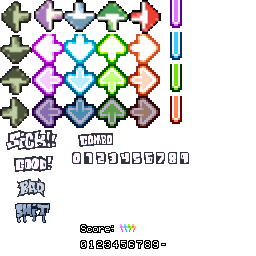
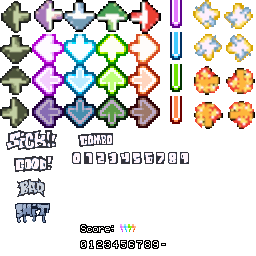
changed stuffs

Changed region(s): [[0.75, 0.0, 1.0, 0.5]]

diff --git a/src/stage.c b/src/stage.c
@@ -23,10 +23,14 @@
 #include "object/splash.h"
 
 int bfnotex = 0;
+int thundercooldown = 0;
+int thunder = 0;
+int flamecooldown = 0;
+int flame = 0;
 
 
 //Stage constants
-#define STAGE_PERFECT //Play all notes perfectly
+//#define STAGE_PERFECT //Play all notes perfectly
 //#define STAGE_NOHUD //Disable the HUD
 
 //#define STAGE_FREECAM //Freecam
@@ -355,7 +359,7 @@ static void Stage_NoteCheck(PlayerState *this, u8 type)
 			#endif
 			return;
 		}
-		else
+		else if ((note->type & ( NOTE_FLAG_THUNDER)))
 		{
 			//Check if mine can be hit
 			fixed_t note_fp = (fixed_t)note->pos << FIXED_SHIFT;
@@ -370,10 +374,64 @@ static void Stage_NoteCheck(PlayerState *this, u8 type)
 			note->type |= NOTE_FLAG_HIT;
 			
 				this->health -= 3500;
+			
+			stage.thunderbolt = 1;
 
-			if (this->character->spec & CHAR_SPEC_MISSANIM)
-				this->character->set_anim(this->character, note_anims[type & 0x3][0]);
-			else if (stage.gameboy == 1)
+		    if (stage.gameboy == 1)
+			this->character->set_anim(this->character, note_anims[type & 0x3][1]);
+
+	       else
+	       this->character->set_anim(this->character, note_anims[type & 0x3][0]);
+
+			this->arrow_hitan[type & 0x3] = -1;
+			
+			#ifdef PSXF_NETWORK
+				if (stage.mode >= StageMode_Net1)
+				{
+					//Send note hit packet
+					Packet note_hit;
+					note_hit[0] = PacketType_NoteHit;
+					
+					u16 note_i = note - stage.notes;
+					note_hit[1] = note_i >> 0;
+					note_hit[2] = note_i >> 8;
+					
+					note_hit[3] = this->score >> 0;
+					note_hit[4] = this->score >> 8;
+					note_hit[5] = this->score >> 16;
+					note_hit[6] = this->score >> 24;
+					
+					/*
+					note_hit[7] = 0xFF;
+					
+					note_hit[8] = this->combo >> 0;
+					note_hit[9] = this->combo >> 8;
+					*/
+					
+					Network_Send(&note_hit);
+				}
+			#endif
+			return;
+		}
+
+		else
+		{
+			//Check if mine can be hit
+			fixed_t note_fp = (fixed_t)note->pos << FIXED_SHIFT;
+			if (note_fp - (stage.late_safe * 3 / 5) > stage.note_scroll)
+				break;
+			if (note_fp + (stage.late_safe * 2 / 5) < stage.note_scroll)
+				continue;
+			if ((note->type & NOTE_FLAG_HIT) || (note->type & (NOTE_FLAG_OPPONENT | 0x3)) != type || (note->type & NOTE_FLAG_SUSTAIN))
+				continue;
+			
+			//Hit the mine
+			note->type |= NOTE_FLAG_HIT;
+
+			    stage.flame = 1;
+				this->health -= 3500;
+
+             if (stage.gameboy == 1)
 			this->character->set_anim(this->character, note_anims[type & 0x3][1]);
 
 	       else
@@ -469,6 +527,7 @@ static void Stage_SustainCheck(PlayerState *this, u8 type)
 	   if (stage.gameboy == 1)
 		this->character->set_anim(this->character, note_anims[type & 0x3][1]);
 
+		else
 		this->character->set_anim(this->character, note_anims[type & 0x3][0]);
 		
 		Stage_StartVocal();
@@ -927,10 +986,12 @@ static void Stage_DrawNotes(void)
 					continue;
 				
 				//Draw note body
+
 				note_src.x = 192 + ((note->type & 0x1) << 5);
 				note_src.y = 64 + ((note->type & 0x2) << 4);
 				note_src.w = 32;
 				note_src.h = 36;
+				
 				
 				note_dst.x = FIXED_DEC(bfnotex,1) + note_x[(note->type & 0x7)] - FIXED_DEC(16,1);
 				note_dst.y = y - FIXED_DEC(16,1);
@@ -1515,27 +1576,68 @@ void Stage_Tick(void)
 			case 511:
 			stage.gameboy = 1;
 			break;
-			case 576:
+			case 574:
 			stage.gameboy = 0;
 			break;
-			case 640:
+			case 641:
 			stage.gameboy = 1;
 			break;
-			case 705:
+			case 703:
 			stage.gameboy = 0;
 			break;
-			case 1056:
+			case 1055:
 			stage.gameboy = 1;
 			break;
 			case 1264:
 			stage.gameboy = 0;
 			break;
-			case 1346:
+			case 1347:
 			stage.gameboy = 1;
 			break;
 			case 1408:
 			stage.gameboy = 0;
 			break;
+			}
+
+			if (stage.thunderbolt == 1)
+			{
+			RECT dst_laser = {0, 0, 400, 400};
+
+			if (thunder != 10)
+			{
+			Gfx_BlendRect(&dst_laser, 228, 253, 1, 0);
+			thunder++;
+			}
+
+			 thundercooldown++;
+			   				
+			 if (thundercooldown == 20)
+			 {
+			   stage.thunderbolt = 0;
+			   thundercooldown = 0;
+			   thunder = 0;
+
+			 }
+			}
+			if (stage.flame == 1)
+			{
+			RECT dst_laser = {0, 0, 400, 400};
+
+			if (flame != 10)
+			{
+			Gfx_BlendRect(&dst_laser, 253, 114, 1, 0);
+			flame++;
+			}
+
+			 flamecooldown++;	
+			
+			 if (flamecooldown == 20)
+			 {
+			   stage.flame = 0;
+			   flamecooldown = 0;
+			   flame = 0;
+
+			 }
 			}
 
 

diff --git a/src/stage/week1.c b/src/stage/week1.c
@@ -22,6 +22,7 @@ typedef struct
 	IO_Data arc_char, arc_char_ptr[6];
 
 	Gfx_Tex tex_back0; //Stage and back
+	Gfx_Tex tex_pixelp;
 
 	//Pikachu state
 	Gfx_Tex tex_pika;
@@ -46,12 +47,13 @@ static const CharFrame pika_frame[] = {
 	{0, {135, 122, 112, 90}, { 51,  90}}, //3 left 4
 	{1, {36, 9, 108, 90}, { 51,  90}}, //3 left 4
 	
-	{1, {  31,   127, 105, 86}, { 69,  86}}, //5 right 1
+	{1, {  31,  127, 105, 86}, { 69,  86}}, //5 right 1
 	{1, {136,   128,  104, 86}, { 69, 86}}, //6 right 2
 };
 
 static const Animation pika_anim[] = {
-	{2, (const u8[]){0, 1, 2, 3, 4, 5, 6, ASCR_BACK, 1}}, //Left
+	{2, (const u8[]){0, 1, 2, 3, 4,  ASCR_BACK, 1}}, //Left
+	{2, (const u8[]){5, 5, 5, 6, 6, 6,  ASCR_BACK, 1}}, //Left
 };
 
 //Pikachu functions
@@ -93,6 +95,7 @@ static const CharFrame char_frame[] = {
 
 static const Animation char_anim[] = {
 	{2, (const u8[]){0, 1, 2, 3, 4, ASCR_BACK, 1}}, //Left
+	{2, (const u8[]){5, 5, 5, 5, 5, ASCR_BACK, 1}}, //Left
 };
 
 
@@ -147,7 +150,40 @@ void Back_Week1_DrawFG(StageBack *back)
 	Animatable_Animate(&this->pika_animatable, (void*)this, Week1_Pika_SetFrame);
 	
 	if (stage.gameboy != 1)
-	Week1_Pika_Draw(this, FIXED_DEC(160,1) - fx, FIXED_DEC(80,1) - fy);
+	Week1_Pika_Draw(this, FIXED_DEC(220,1) - fx, FIXED_DEC(80,1) - fy);
+
+	if (stage.gameboy != 1 && stage.thunderbolt == 1)
+	Animatable_SetAnim(&this->pika_animatable, 1);
+
+	fixed_t beat_bop;
+	if ((stage.song_step & 0x3) == 0)
+		beat_bop = FIXED_UNIT - ((stage.note_scroll / 24) & FIXED_LAND);
+	else
+		beat_bop = 0;
+
+	if (stage.gameboy == 1)
+	{
+	 //Draw boppers
+	static const struct Back_Week1_LowerBop
+	{
+		RECT src;
+		RECT_FIXED dst;
+	} lbop_piece[] = {
+		{{0, 0, 88, 90}, {FIXED_DEC(190,1), FIXED_DEC( 10,1), FIXED_DEC(88,1), FIXED_DEC(90,1)}},
+	};
+	
+	const struct Back_Week1_LowerBop *lbop_p = lbop_piece;
+	for (size_t i = 0; i < COUNT_OF(lbop_piece); i++, lbop_p++)
+	{
+		RECT_FIXED lbop_dst = {
+			lbop_p->dst.x - fx - (beat_bop << 1),
+			lbop_p->dst.y - fy + (beat_bop << 3),
+			lbop_p->dst.w + (beat_bop << 2),
+			lbop_p->dst.h - (beat_bop << 3),
+		};
+		Stage_DrawTex(&this->tex_pixelp, &lbop_p->src, &lbop_dst, stage.camera.bzoom);
+	}
+}
 }
 
 void Back_Week1_DrawBG(StageBack *back)
@@ -172,17 +208,20 @@ void Back_Week1_DrawBG(StageBack *back)
 	Animatable_Animate(&this->char_animatable, (void*)this, Week1_Char_SetFrame);
 	
 	if (stage.gameboy != 1)
-	Week1_Char_Draw(this, FIXED_DEC(80,1) - fx, FIXED_DEC(80,1) - fy);
+	Week1_Char_Draw(this, FIXED_DEC(86,1) - fx, FIXED_DEC(60,1) - fy);
+
+	if (stage.gameboy != 1 && stage.flame == 1)
+	Animatable_SetAnim(&this->char_animatable, 1);
 	
 
 	if (stage.gameboy != 1)
 	{
 	RECT back_src = {0, 0, 256, 141};
 	RECT_FIXED back_dst = {
-		FIXED_DEC(-278,1) - fx,
-		FIXED_DEC(-100,1) - fy,
-		FIXED_DEC(540,1),
-		FIXED_DEC(341,1)
+		FIXED_DEC(-310,1) - fx,
+		FIXED_DEC(-130,1) - fy,
+		FIXED_DEC(630,1),
+		FIXED_DEC(381,1)
 	};
 
 	Stage_DrawTex(&this->tex_back0, &back_src, &back_dst, stage.camera.bzoom);
@@ -195,7 +234,7 @@ void Back_Week1_Free(StageBack *back)
 	
 	//Free Pikachu archive
 	Mem_Free(this->arc_pika);
-
+    Mem_Free(this->arc_char);
 
 	//Free structure
 	Mem_Free(this);
@@ -217,6 +256,7 @@ StageBack *Back_Week1_New(void)
 	//Load background textures
 	IO_Data arc_back = IO_Read("\\WEEK1\\BACK.ARC;1");
 	Gfx_LoadTex(&this->tex_back0, Archive_Find(arc_back, "back0.tim"), 0);
+	Gfx_LoadTex(&this->tex_pixelp, Archive_Find(arc_back, "pixelp.tim"), 0);
 	Mem_Free(arc_back);
 
 	//Load pikachu textures

diff --git a/src/stagedef_disc1.h b/src/stagedef_disc1.h
@@ -1,7 +1,7 @@
 	{ //StageId_1_1 (Bopeebo)
 		//Characters
-		{Char_BF_New,    FIXED_DEC(-120,1),  FIXED_DEC(200,1)},
-		{Char_Dad_New, FIXED_DEC(110,1),  FIXED_DEC(60,1)},
+		{Char_BF_New,    FIXED_DEC(-80,1),  FIXED_DEC(200,1)},
+		{Char_Dad_New, FIXED_DEC(160,1),  FIXED_DEC(80,1)},
 		{NULL,     FIXED_DEC(0,1),  FIXED_DEC(-10,1)},
 		
 		//Stage background

diff --git a/src/character/bf.c b/src/character/bf.c
@@ -460,8 +460,8 @@ Character *Char_BF_New(fixed_t x, fixed_t y)
 	
 	this->character.health_i = 0;
 	
-	this->character.focus_x = FIXED_DEC(140,1);
-	this->character.focus_y = FIXED_DEC(-145,1);
+	this->character.focus_x = FIXED_DEC(160,1);
+	this->character.focus_y = FIXED_DEC(-160,1);
 	this->character.focus_zoom = FIXED_DEC(8,10);
 	
 	//Load art

diff --git a/src/character/dad.c b/src/character/dad.c
@@ -174,7 +174,7 @@ Character *Char_Dad_New(fixed_t x, fixed_t y)
 	this->character.health_i = 1;
 	
 	this->character.focus_x = FIXED_DEC(-80,1);
-	this->character.focus_y = FIXED_DEC(-10,1);
+	this->character.focus_y = FIXED_DEC(-40,1);
 	this->character.focus_zoom = FIXED_DEC(8,10);
 	
 	//Load art
